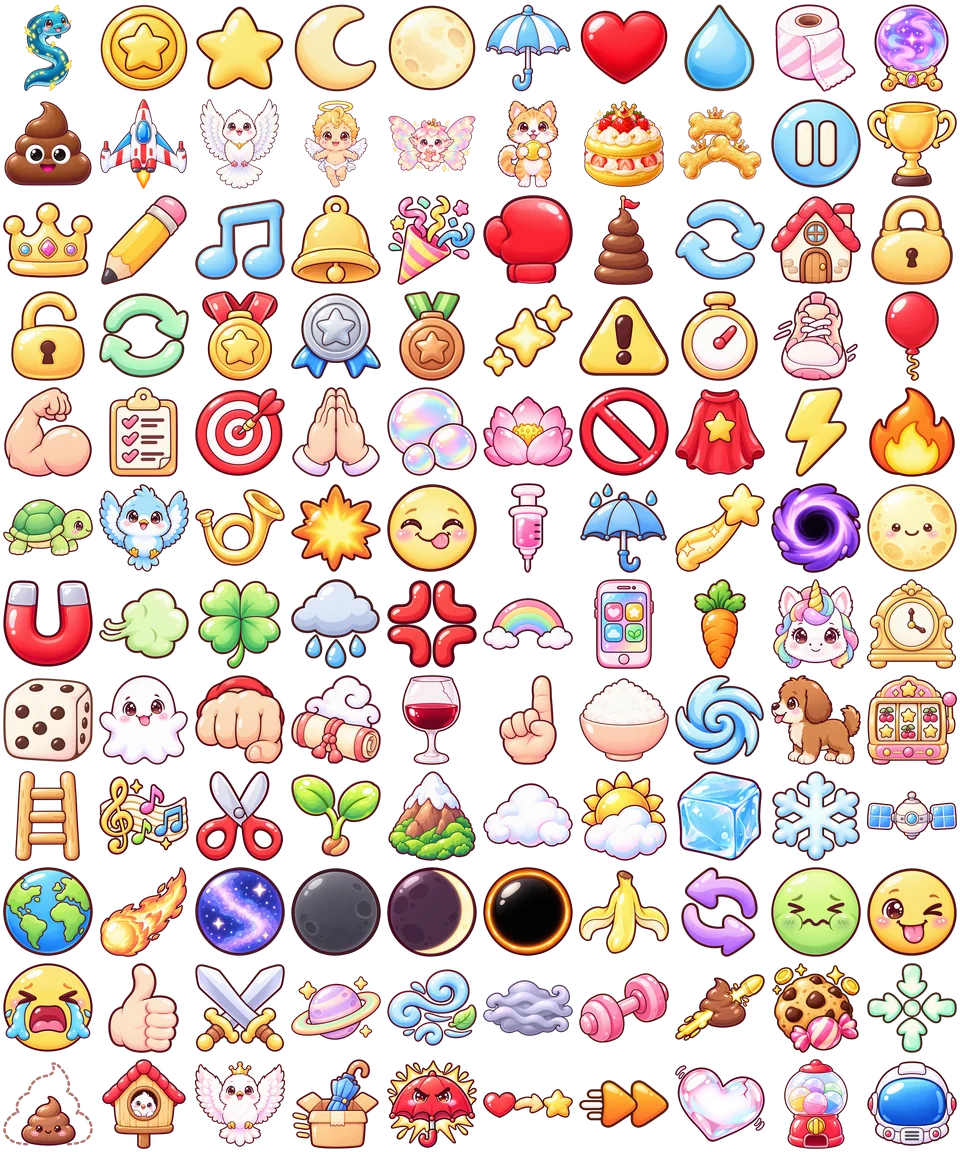
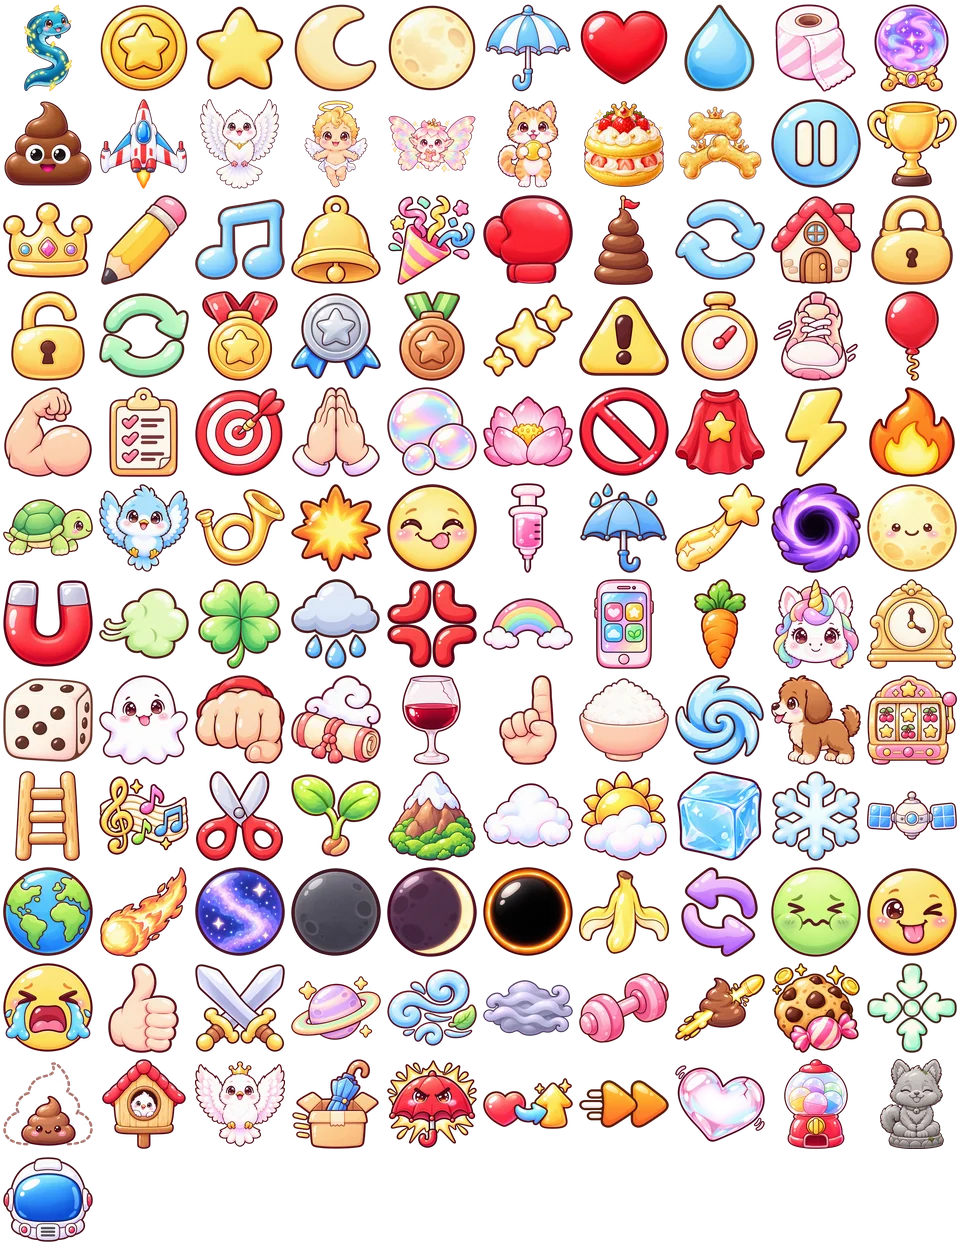
v0.9.214 돌부처(이름·강아지 아이콘), 하트 바꾸기 아이콘, 부양사 대시 위아래·축지법 몸 나눠 넘어가기, 대시 버튼 그림

diff --git a/index.html b/index.html
@@ -2294,7 +2294,7 @@
        밀어 숨길 뿐 남겨 두어 textContent 가 그대로다(글자를 읽는 코드가 안 깨진다). 나중에 붙는 글자는 MutationObserver 가 잡는다.
      · 캔버스 글자: fillText/strokeText 를 감싸 이모지 자리에 그림을 그린다 — 자리 폭은 원래 이모지 폭 그대로라 배치가 안 바뀐다.
      그림이 아직 안 왔거나 목록에 없는 이모지는 원래 이모지로 나온다. */
-  /*ICONS-BEGIN*/ const ICON_KEYS = ["🐍", "🪙", "⭐", "🌙", "🌕", "☂", "❤", "💧", "🧻", "🔮", "💩", "🚀", "🕊", "👼", "🧚", "🐈", "🦴", "🍗", "⏸", "🏆", "👑", "✏", "🎵", "🔔", "🎉", "🥊", "🗼", "🔄", "🏠", "🔒", "🔓", "🔁", "🥇", "🥈", "🥉", "✨", "⚠", "⏱", "🏃", "🎈", "💪", "📋", "🎯", "🙏", "🫧", "🧘", "🚫", "🦸", "⚡", "🔥", "🐢", "🐦", "📯", "💥", "😋", "💉", "☔", "🌠", "🕳", "🌝", "🧲", "💨", "🍀", "🌧", "💢", "🌈", "📱", "🥕", "🦄", "🕰", "🎲", "👻", "👊", "👯", "🍷", "☝", "🍚", "🌀", "🐕", "🎰", "🪜", "🎼", "✂", "🌱", "⛰", "☁", "🌤", "🧊", "❄", "🛰", "🌍", "☄", "🌌", "🌑", "🌒", "⚫", "🍌", "😵", "🤢", "😜", "😭", "👍", "⚔", "🪐", "🌬", "🌫", "🏋", "🔩", "🍪", "🤏", "🟤", "🪺", "🦢", "📦", "🌂", "💞", "⏩", "🫙", "🪀", "🧑🚀"]; const ICON_COLS = 10, ICON_ROWS = 12, ICON_CELL = 96; /*ICONS-END*/
+  /*ICONS-BEGIN*/ const ICON_KEYS = ["🐍", "🪙", "⭐", "🌙", "🌕", "☂", "❤", "💧", "🧻", "🔮", "💩", "🚀", "🕊", "👼", "🧚", "🐈", "🦴", "🍗", "⏸", "🏆", "👑", "✏", "🎵", "🔔", "🎉", "🥊", "🗼", "🔄", "🏠", "🔒", "🔓", "🔁", "🥇", "🥈", "🥉", "✨", "⚠", "⏱", "🏃", "🎈", "💪", "📋", "🎯", "🙏", "🫧", "🧘", "🚫", "🦸", "⚡", "🔥", "🐢", "🐦", "📯", "💥", "😋", "💉", "☔", "🌠", "🕳", "🌝", "🧲", "💨", "🍀", "🌧", "💢", "🌈", "📱", "🥕", "🦄", "🕰", "🎲", "👻", "👊", "👯", "🍷", "☝", "🍚", "🌀", "🐕", "🎰", "🪜", "🎼", "✂", "🌱", "⛰", "☁", "🌤", "🧊", "❄", "🛰", "🌍", "☄", "🌌", "🌑", "🌒", "⚫", "🍌", "😵", "🤢", "😜", "😭", "👍", "⚔", "🪐", "🌬", "🌫", "🏋", "🔩", "🍪", "🤏", "🟤", "🪺", "🦢", "📦", "🌂", "💞", "⏩", "🫙", "🪀", "🗿", "🧑🚀"]; const ICON_COLS = 10, ICON_ROWS = 13, ICON_CELL = 96; /*ICONS-END*/
   const ICON_IDX = new Map(ICON_KEYS.map((k, i) => [k, i]));
   const ICON_RE = ICON_KEYS.length ? new RegExp("(" + ICON_KEYS.slice().sort((a, b) => b.length - a.length)
     .map(k => k.replace(/[.*+?^${}()|[\]\\]/g, "\\$&")).join("|") + ")\\uFE0F?", "gu") : null;
@@ -2414,7 +2414,7 @@
   const elTitle = document.getElementById("overTitle");
   const coinNote = document.getElementById("coinNote");
 
-  const GAME_VERSION = "v0.9.213";
+  const GAME_VERSION = "v0.9.214";
   /* 제작사 스플래시(bamhobak friends 로고) — 2026-09-20 끔. 다시 켜려면 true */
   const SPLASH_USE = false;   // 코드를 고칠 때마다 뒤 두 자리를 올린다
   document.getElementById("ver").textContent = GAME_VERSION;
@@ -4543,7 +4543,7 @@
       go: () => { aug.pierce = true; } },
     { id: "fly",        ic: "🪰", nm: "똥파리", ds: "맞을 때마다 똥파리가 나와서 5초 동안 똥을 부숴요",
       once: true, go: () => { aug.fly = true; } },
-    { id: "stone",      ic: "🧊", nm: "얼음 땡", ds: "2초 가만히 있으면 돌이 돼서 안 맞아요(최대 5초) · 그동안 점수랑 아이템은 없어요",
+    { id: "stone",      ic: "🗿", nm: "돌부처", ds: "2초 가만히 있으면 돌이 돼서 안 맞아요(최대 5초) · 그동안 점수랑 아이템은 없어요",
       once: true, go: () => { aug.stone = true; stoneT = 0; } },
     { id: "gacha",      ic: "🪀", nm: "뽑기", ds: "증강이 물음표로 나와요 · 그중 절반은 비밀 증강",
       once: true, go: () => { aug.gacha = true; } },
@@ -7974,12 +7974,9 @@
     const kd = (prophIs("reverse") || (vsOn() && vsReversed(player, performance.now()))) ? -1 : 1;   // 거꾸로 가는 날·어지럼 저주 — 끄는 방향과 반대로
     const wantX = drag.px + (pointerX(e) - drag.fx) * DRAG_GAIN * kd;
     let x = Math.max(player.r, Math.min(worldW() - player.r, wantX));   // 여럿이 판은 하늘이 화면보다 넓다
-    if (x !== wantX && job === "levitator" && myPerk(5, "A") && state === STATE.PLAY && !vsLike()) {   // v0.9.85 축지법 — 반대편 끝으로
-      const span = worldW() - 2 * player.r, nx = wantX < player.r ? wantX + span : wantX - span;
-      drag.px += nx - wantX;
-      x = Math.max(player.r, Math.min(worldW() - player.r, nx));
-      burst(player.x, player.y + player.hy, "#d8e6ff", 10);
-      player.x = x; burst(x, player.y + player.hy, "#d8e6ff", 10);
+    if (wrapOn()) {   // v0.9.85 축지법 — 반대편 끝으로 · v0.9.214 몸이 조금씩 넘어간다
+      x = wrapMod(wantX);
+      drag.px += x - wantX;
     } else if (x !== wantX) drag.px += x - wantX;            // 끝에 닿으면 기준점을 끌어온다
     player.tx = x;
     if (flyOn) {
@@ -8031,7 +8028,7 @@
     if (now - lastTapAt < DTAP_MS && Math.hypot(x - lastTapX, y - lastTapY) < DTAP_DIST) {
       lastTapAt = -1e9;                 // 세 번째 두드림이 이어서 또 터지지 않게
       tapDownAt = 0;
-      tryDash(now, partyOn() ? x + PARTY.camX : x);   // 여럿이 — 화면 자리를 하늘 자리로
+      tryDash(now, partyOn() ? x + PARTY.camX : x, y);   // 여럿이 — 화면 자리를 하늘 자리로 · v0.9.214 나는 캐릭터는 누른 높이로도
       return;
     }
     tapDownAt = now; tapDownX = x; tapDownY = y; tapMoved = 0;
@@ -10406,7 +10403,7 @@
     const vk = vsSplit();                             // 한 폰 대전 — 방향키는 P2 몫
     if ((!vk && keys.ArrowLeft)  || keys.a || keys.A) player.tx -= kx * kd;
     if ((!vk && keys.ArrowRight) || keys.d || keys.D) player.tx += kx * kd;
-    player.tx = Math.max(player.r, Math.min(W - player.r, player.tx));
+    player.tx = wrapOn() ? wrapMod(player.tx) : Math.max(player.r, Math.min(W - player.r, player.tx));   // v0.9.214 축지법은 끝이 이어진다
     if (flyOn) {
       if (keys.ArrowUp   || keys.w || keys.W) player.ty -= ky;
       if (keys.ArrowDown || keys.s || keys.S) player.ty += ky;
@@ -10423,9 +10420,12 @@
     // 대전모드 — 밟혀서 멈춘 동안은 제자리 (손가락 목표는 그대로 두어 풀리면 가던 쪽으로 간다)
     if (vsLike()) vsMoveBody(player, dt, now);          // 대전모드 — 밟혀 멈춤·바나나·얼음·구린내
     else {
-      const want = (player.tx - player.x) * Math.min(1, dt * 20);
+      let dTx = player.tx - player.x;
+      if (wrapOn()) dTx = wrapMod(dTx + W / 2) - W / 2;   // v0.9.214 축지법 — 끝을 넘어 가까운 쪽으로
+      const want = dTx * Math.min(1, dt * 20);
       const maxStep = PLAYER_MAX_SPEED * spdMul() * dt;
       player.x += Math.max(-maxStep, Math.min(maxStep, want));
+      if (wrapOn()) player.x = wrapMod(player.x);
     }
     /* ── 방귀 대시 — 돌진하는 동안은 끌기보다 앞선다 ──
        끌기 기준점(drag.px)과 목표(player.tx)를 함께 끌고 가야, 대시가 끝나는 순간
@@ -10448,7 +10448,7 @@
           if (!stoneOn && stoneT >= 2) {   // v0.9.105 1 → 2초
             stoneDur = 0;
             stoneOn = true;
-            popText(player.x, player.y - 70, "🗿 얼음 땡", "#d9d9d9", 22);
+            popText(player.x, player.y - 70, "🗿 돌부처", "#d9d9d9", 22);
             burst(player.x, player.y + player.hy, "#d0d0d0", 12);
             beep(180, .12, "triangle", .06);
           }
@@ -10842,7 +10842,7 @@
         if (shieldTimer <= 0) {
           shieldTimer = UMB_SEC;
           shields = 1;
-          popText(player.x, player.y - 60, "☔ 우산 도착!", "#7ec8ff");
+          popText(player.x, player.y - 60, "📦 우산 도착!", "#7ec8ff");
           beep(880, .12, "triangle", .05);
         }
       } else {
@@ -11145,7 +11145,8 @@
       if (it.bob !== undefined) it.bob += dt * tsc * 4;
 
       const cy = player.y + player.hy;
-      const dx = it.x - player.x, dy = it.y - cy;
+      const pX = wrapNear(player.x, it.x);   // v0.9.214 축지법 — 끝에 걸친 몸은 양쪽에서 맞고 먹는다
+      const dx = it.x - pX, dy = it.y - cy;
       if ((aug.blackhole || job === "levitator") && it.type === "poop" && it.skin === "fever") {
         // 간식 낙하물은 가까이 왔을 때만 끌어당긴다 (전부 빨아들이면 너무 세다)
         // 부양사 기본치는 블랙홀의 절반 반경·45% 힘
@@ -11187,7 +11188,7 @@
       const dmg = it.type === "poop" && !powered && it.skin !== "fever";
       // 끝점만 보면 빠른 똥이 캐릭터를 뛰어넘을 수 있어서, 이번 프레임에 지나온 선분과의 거리를 본다
       const hitR = it.r + player.r * (dmg ? .632 : .78) * hitMul();
-      const segD = (!it.bounced && !it.ghost) ? segDist(player.x, cy, prevX, prevY, it.x, it.y) : 1e9;
+      const segD = (!it.bounced && !it.ghost) ? segDist(pX, cy, prevX, prevY, it.x, it.y) : 1e9;
       const stonePass = stoneOn && !(it.type === "poop" && it.dark);   // v0.9.206 얼음 땡 — 다크똥은 돌이어도 맞는다
       const hit = segD < hitR && !stonePass;      // 얼음 땡 — 돌인 동안은 (다크똥 말고) 똥도 아이템도 그냥 지나간다
       /* 아슬! — 떨어지는 내내 히트박스에 가장 가까웠던 틈을 적어 둔다 (바닥에 닿을 때 점수가 갈린다).
@@ -11367,7 +11368,7 @@
                 umbBlast = { x: bx, y: by, r: bR, t: 0.42 };
                 shake = Math.max(shake, 26);
                 feverFlash = Math.max(feverFlash, 0.4);
-                popText(player.x, player.y - 95, "💢 화난 우산!", "#7ec8ff", 26);
+                popText(player.x, player.y - 95, "🌂 화난 우산!", "#7ec8ff", 26);
                 if (!sfx("angry")) beep(190, .22, "square", .06);
               }
             } else {
@@ -11702,13 +11703,22 @@
   /* sx — 두 번째로 두드린 자리. v0.8.00 부터 거리 제한 없이 **그 자리로 바로 간다**
      (예전에는 두드린 쪽으로 210px 만 갔다). 캐릭터 바로 위를 두드렸거나 키보드로 냈을 때는
      갈 곳이 없으니 보고 있는 쪽으로 DASH_DIST 만큼 간다. */
-  function tryDash(now, sx) {
+  /* v0.9.214 축지법(부양사 Lv5 A) — 화면 좌우가 이어진다. 몸은 반쯤 넘어가면 반대쪽에 나머지가 보인다(통째로 순간이동하지 않는다) */
+  function wrapOn() { return job === "levitator" && myPerk(5, "A") && state === STATE.PLAY && !vsLike() && !partyOn(); }
+  function wrapMod(x) { return ((x % W) + W) % W; }
+  function wrapNear(px, x) { if (!wrapOn()) return px; const d = x - px; return d > W / 2 ? px + W : d < -W / 2 ? px - W : px; }   // 물건 쪽에 더 가까운 몸 자리
+  function tryDash(now, sx, sy) {
     if (!aug.dash || state !== STATE.PLAY || dying > 0) return;
     if (dashCd > 0 || dashT > 0) return;
-    const x0 = player.x;
-    const near = Math.abs(sx - x0) < DASH_MIN;
+    const x0 = player.x, y0 = player.y;
+    /* v0.9.214 하늘을 나는 캐릭터(부양사 등)는 누른 자리로 위아래까지 — 몸 가운데가 누른 자리에 오게 */
+    const fly2 = flyOn && sy !== undefined && !partyOn() && !vsLike();
+    let ny = y0;
+    if (fly2) ny = Math.max(H * FLY_TOP, Math.min(groundY, sy - player.hy));
+    const near = Math.abs(sx - x0) < DASH_MIN && Math.abs(ny - y0) < DASH_MIN;
     let nx = near ? x0 + (facing === "left" ? -1 : 1) * DASH_DIST : sx;
-    if (prophIs("reverse")) nx = x0 - (nx - x0);      // 거꾸로 가는 날 — 조작이 통째로 뒤집힌다
+    if (near) ny = y0;
+    if (prophIs("reverse")) { nx = x0 - (nx - x0); if (fly2) ny = Math.max(H * FLY_TOP, Math.min(groundY, y0 - (ny - y0))); }      // 거꾸로 가는 날 — 조작이 통째로 뒤집힌다
     nx = Math.max(player.r, Math.min(worldW() - player.r, nx));
     dashDir = nx >= x0 ? 1 : -1;
     /* 가는 쪽을 보게 한다 (v0.8.22) — 보는 쪽은 매 프레임 움직인 방향으로 정하는데, 순간이동은 그 셈 밖에서
@@ -11722,10 +11732,10 @@
     const gspr = currentSprite(now), gfl = sprFlipped(now);
     if (gspr) {
       // 겹 수는 간 거리에 맞춘다 — 짧게 가면 몇 겹만 (많이 남기면 한자리에 뭉쳐 지저분하다)
-      const n = Math.max(4, Math.min(DASH_GHOSTS, Math.round(Math.abs(nx - x0) / 22)));
+      const n = Math.max(4, Math.min(DASH_GHOSTS, Math.round(Math.hypot(nx - x0, ny - y0) / 22)));
       for (let i = 0; i < n; i++) {
         const f = i / (n - 1);                                 // 0 출발 ~ 1 도착
-        ghosts.push({ x: x0 + (nx - x0) * f, y: player.y, tilt: player.tilt, flip: gfl, spr: gspr,
+        ghosts.push({ x: x0 + (nx - x0) * f, y: y0 + (ny - y0) * f, tilt: player.tilt, flip: gfl, spr: gspr,
                       t: 0, life: DASH_GHOST_LIFE * (0.45 + 0.55 * f),   // 도착지 쪽이 오래 남는다
                       a: 0.3 + 0.55 * f, st: 1.75 - 0.75 * f });
       }
@@ -11735,13 +11745,14 @@
     const R = player.r * 0.632 * hitMul();
     for (const q of items) {
       if (q.type !== "poop" || q.skin === "fever" || q.bounced || q.ghost) continue;
-      if (segDist(q.x, q.y, x0, cy, nx, cy) > R + q.r) continue;
+      if (segDist(q.x, q.y, x0, cy, nx, cy + (ny - y0)) > R + q.r) continue;
       q.gap = -1;                                    // 바닥에 닿을 때 3배
       if (!q.grazed) { q.grazed = true; onGraze(q); }
     }
 
     player.x = player.tx = nx;                       // 순간이동
     if (drag) drag.px = nx;
+    if (fly2) { player.y = player.ty = ny; if (drag) drag.py = ny; }   // v0.9.214 위아래도
     dashT = DASH_TAIL;                               // 아주 짧은 여운 — 이 동안은 스침을 계속 잰다
     dashCd = DASH_CD;
     if (partyOn()) {                                 // 여럿이 — 로블록스판처럼 3번 · 4초마다 · 도착 뒤 1초 무적
@@ -11752,7 +11763,7 @@
        도착한 자리에 똥이 있으면 바로 맞아야 한다. 아무 데나 뛰어들어도 되는 도피 수단이 아니다. */
     // 방귀 연기 — 출발한 자리에 뭉게뭉게, 지나온 길에도 흩뿌린다
     burst(x0, cy + 14, "#c7e39a", 14);
-    for (let i = 1; i < 5; i++) burst(x0 + (nx - x0) * (i / 5), cy + 10, "#dcecb8", 4);
+    for (let i = 1; i < 5; i++) burst(x0 + (nx - x0) * (i / 5), cy + (ny - y0) * (i / 5) + 10, "#dcecb8", 4);
     popText(nx, player.y - 46, "💨 방귀 대시!", "#b9e08a", 22);
     shake = Math.max(shake, 13);
     if (!sfx("dash")) { beep(150, .14, "sawtooth", .05); beep(90, .18, "square", .04); }
@@ -17860,10 +17871,31 @@
   /* 방귀 대시 눈금 — 화면 오른쪽 아래 동그란 표시 (v0.8.01, 예전엔 머리 위라 캐릭터와 겹쳤다).
      다 차면 초록으로 환해지고 💨 가 도드라진다. 차는 중에는 남은 만큼 테두리가 돌아간다.
      증강을 가진 사람에게만 보인다 (안 고른 사람 화면에는 아무것도 늘지 않는다). */
+  const dashBtnImg = new Image(); dashBtnImg.src = "assets/ui/dash_btn.webp";   // v0.9.214 방귀 대시 버튼 그림(Codex)
   function drawDashGauge(now) {
     if (!aug.dash || dying > 0) return;
     const ready = dashCd <= 0;
     const k = ready ? 1 : 1 - dashCd / DASH_CD;      // 0 → 1 로 차오른다
+    if (hudOk(dashBtnImg)) {                          // v0.9.214 그림 버튼 — 차는 중엔 회색, 남은 만큼 어둡게 덮고, 다 차면 통통 뛴다
+      const R = 25, cx = W - 18 - R, cy = H - 24 - R;
+      const sc = ready ? 1 + 0.06 * Math.max(0, Math.sin(now / 160)) : 1, d = R * 2 * sc;
+      ctx.save();
+      if (!ready) { ctx.globalAlpha = 0.75; if (canvasFilterOk) ctx.filter = "grayscale(1) brightness(.8)"; }
+      ctx.drawImage(dashBtnImg, cx - d / 2, cy - d / 2, d, d);
+      ctx.filter = "none"; ctx.globalAlpha = 1;
+      if (!ready) {
+        ctx.fillStyle = "rgba(0,0,0,.38)";            // 남은 시간만큼 어두운 부채꼴
+        ctx.beginPath(); ctx.moveTo(cx, cy); ctx.arc(cx, cy, R * 0.86, -1.5708 + 6.283 * k, -1.5708 + 6.283); ctx.closePath(); ctx.fill();
+        ctx.lineWidth = 3.5; ctx.strokeStyle = "#cdf59a"; ctx.lineCap = "round";
+        ctx.beginPath(); ctx.arc(cx, cy, R + 1, -1.5708, -1.5708 + 6.283 * k); ctx.stroke();
+      } else {
+        ctx.globalAlpha = 0.35 + 0.25 * Math.sin(now / 200);   // 준비됨 — 바깥 빛
+        ctx.strokeStyle = "#e9ffb0"; ctx.lineWidth = 3;
+        ctx.beginPath(); ctx.arc(cx, cy, R * sc + 3, 0, 6.283); ctx.stroke();
+      }
+      ctx.restore();
+      return;
+    }
     const R = 20, cx = W - 20 - R, cy = H - 26 - R;
     ctx.save();
     ctx.beginPath(); ctx.arc(cx, cy, R, 0, 6.283);
@@ -18192,7 +18224,12 @@
       if (state !== STATE.OVER) drawPetsBack(now);
       if (vsOn() && state !== STATE.OVER && state !== STATE.READY) drawVsWorld(now);   // 얼음·껍질·구름·비둘기
       if (partyNow) { drawPartyBodies(now); drawPartyUpper(now); }
-      if (state !== STATE.OVER || gameCleared) drawPlayer(now);   // v1.0.02 클리어 화면 뒤에도 붙은 캐릭터
+      if (state !== STATE.OVER || gameCleared) {
+        drawPlayer(now);   // v1.0.02 클리어 화면 뒤에도 붙은 캐릭터
+        if (wrapOn() && (player.x < player.r * 3 || player.x > W - player.r * 3)) {   // v0.9.214 축지법 — 끝에 걸치면 반대쪽에 나머지 몸
+          ctx.save(); ctx.translate(player.x < W / 2 ? W : -W, 0); drawPlayer(now); ctx.restore();
+        }
+      }
       if (vsOn() && state !== STATE.OVER && state !== STATE.READY) { asRival(() => drawPlayer(now)); drawVsTags(now); drawVsRoulette(now); drawVsRead(now); drawVsUpper(now); }
       // v0.9.190 무적 둘레 동그라미는 없앴다 (증강 뒤·맞은 뒤 모두) — drawInvGlow 는 안 부른다
     }

diff --git a/tools/icon_list.py b/tools/icon_list.py
@@ -114,10 +114,11 @@ NEW = [
     ("🦢", "aug_kingdove", "a chubby white dove with wings spread wide wearing a small shiny golden crown on its head"),
     ("📦", "aug_umbdelivery", "an open cardboard delivery box with a closed blue umbrella sticking out of it, little speed lines behind the box (umbrella delivery)"),
     ("🌂", "aug_angryumb", "an open red umbrella whose canopy has angry slanted eyebrows and angry eyes, with a bursting POW-shaped spark around it (no letters)"),
-    ("💞", "aug_hearttrade", "a red heart on the left, a chubby curved arrow in the middle, and a shiny gold star on the right (trading a heart for points)"),
+    ("💞", "aug_hearttrade", "a red heart on the left giving itself away, a chubby curved swap arrow in the middle, and a big shiny golden UPWARD arrow with sparkles on the right (give up one heart, your score goes up)"),
     ("⏩", "aug_fast", "a chubby orange fast-forward double triangle arrow with white speed lines behind it"),
     ("🫙", "aug_fragile", "a glossy see-through glass heart with a small crack, tilted and teetering, with tiny wobble lines (fragile, risky)"),
     ("🪀", "aug_gacha", "a cute capsule toy gacha machine: a round glass dome full of colorful capsules on a red base with a big turn knob"),
+    ("🗿", "aug_stonebuddha", "OVERRIDE: this time DO draw the cute puppy from the reference image — the same puppy turned into a gray STONE statue, sitting cross-legged in meditation like a little stone Buddha, paws resting in its lap, serene closed eyes and a gentle smile, rough carved stone texture with a few tiny cracks and a little green moss, sitting on a small round stone base. Whole body is gray stone (no fur color)"),   # v0.9.214 돌부처
     ("🧑🚀", "astronaut", "a white astronaut helmet with a big glossy blue visor (helmet only, nobody inside)"),
 ]
 

diff --git a/README.md b/README.md
@@ -5,7 +5,7 @@
 👉 **플레이: https://bamhobak.github.io/ddongpi/**
 
 > 이 문서는 `index.html` 의 실제 값을 옮겨 적은 것입니다. 숫자를 고쳤으면 여기도 같이 고쳐 주세요.
-> 마지막으로 맞춰 본 판: **v0.9.213**
+> 마지막으로 맞춰 본 판: **v0.9.214**
 
 ## ⚔ 대전모드 (v0.8.24 한 폰 · v0.8.25 두 폰)
 시작하기를 누르면 **[방 만들기] · [방 참가](방 번호 4자리) · [한 폰으로 둘이서]** 를 고릅니다.
